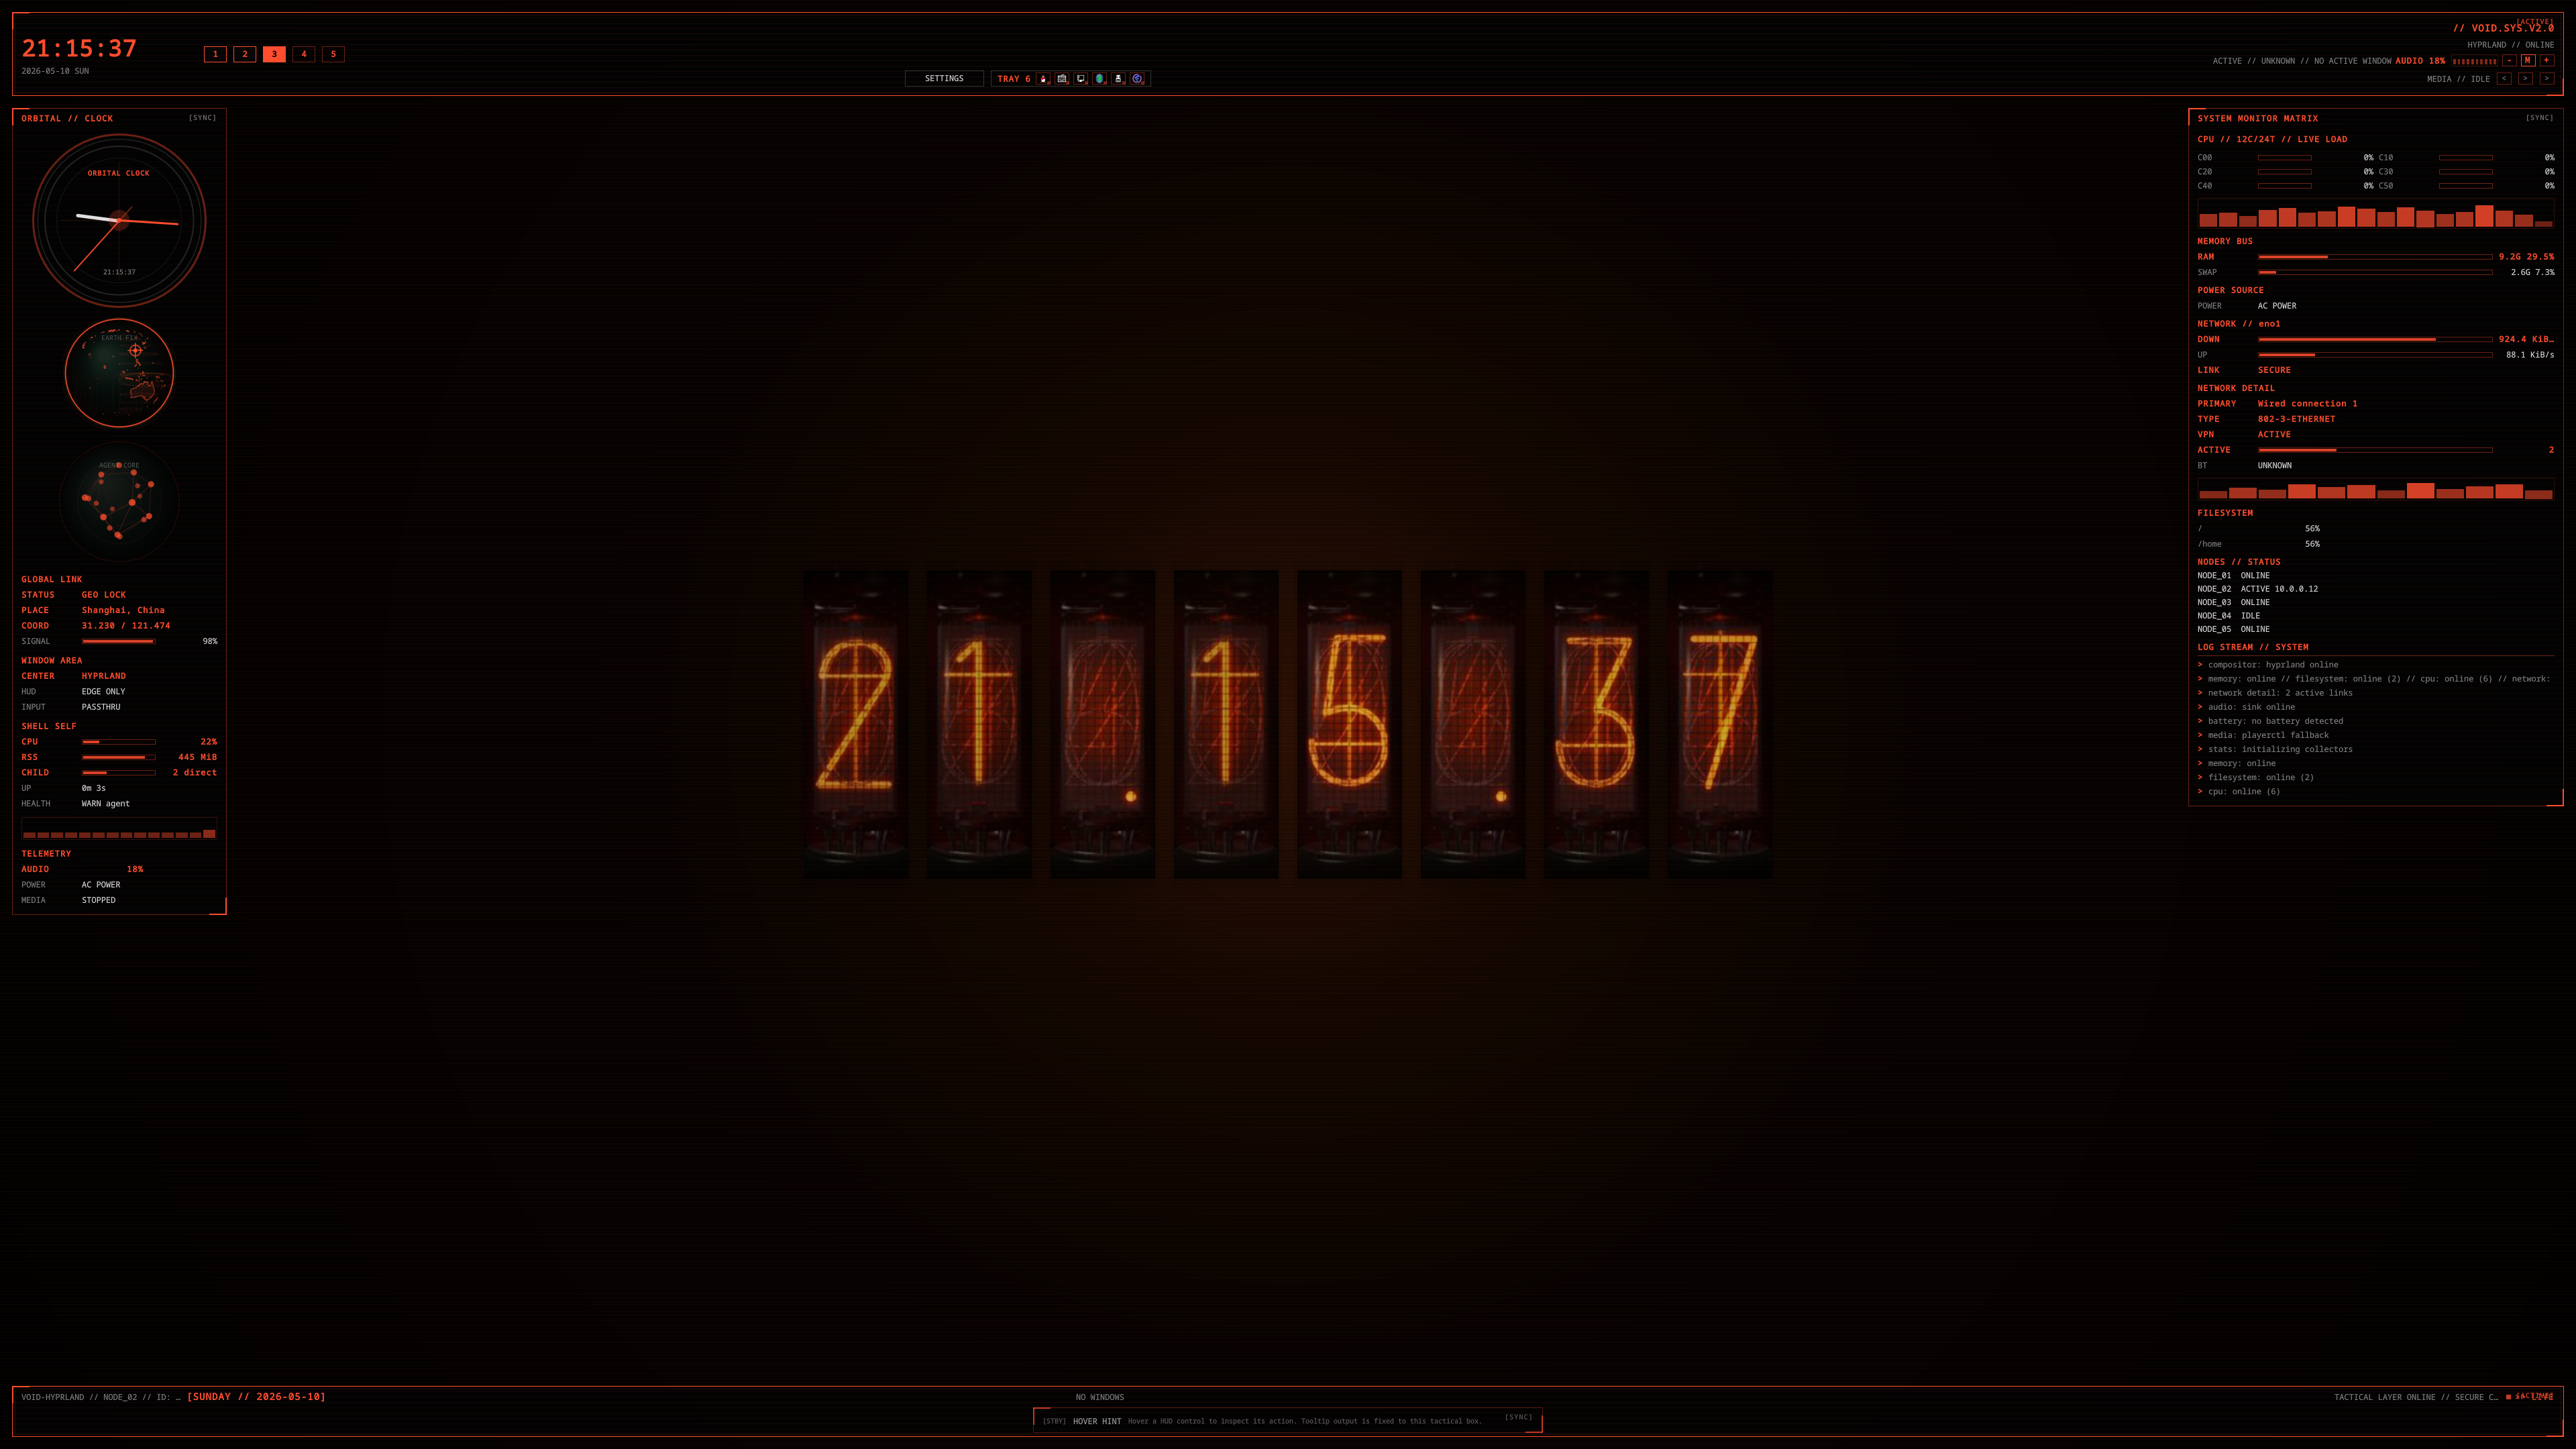
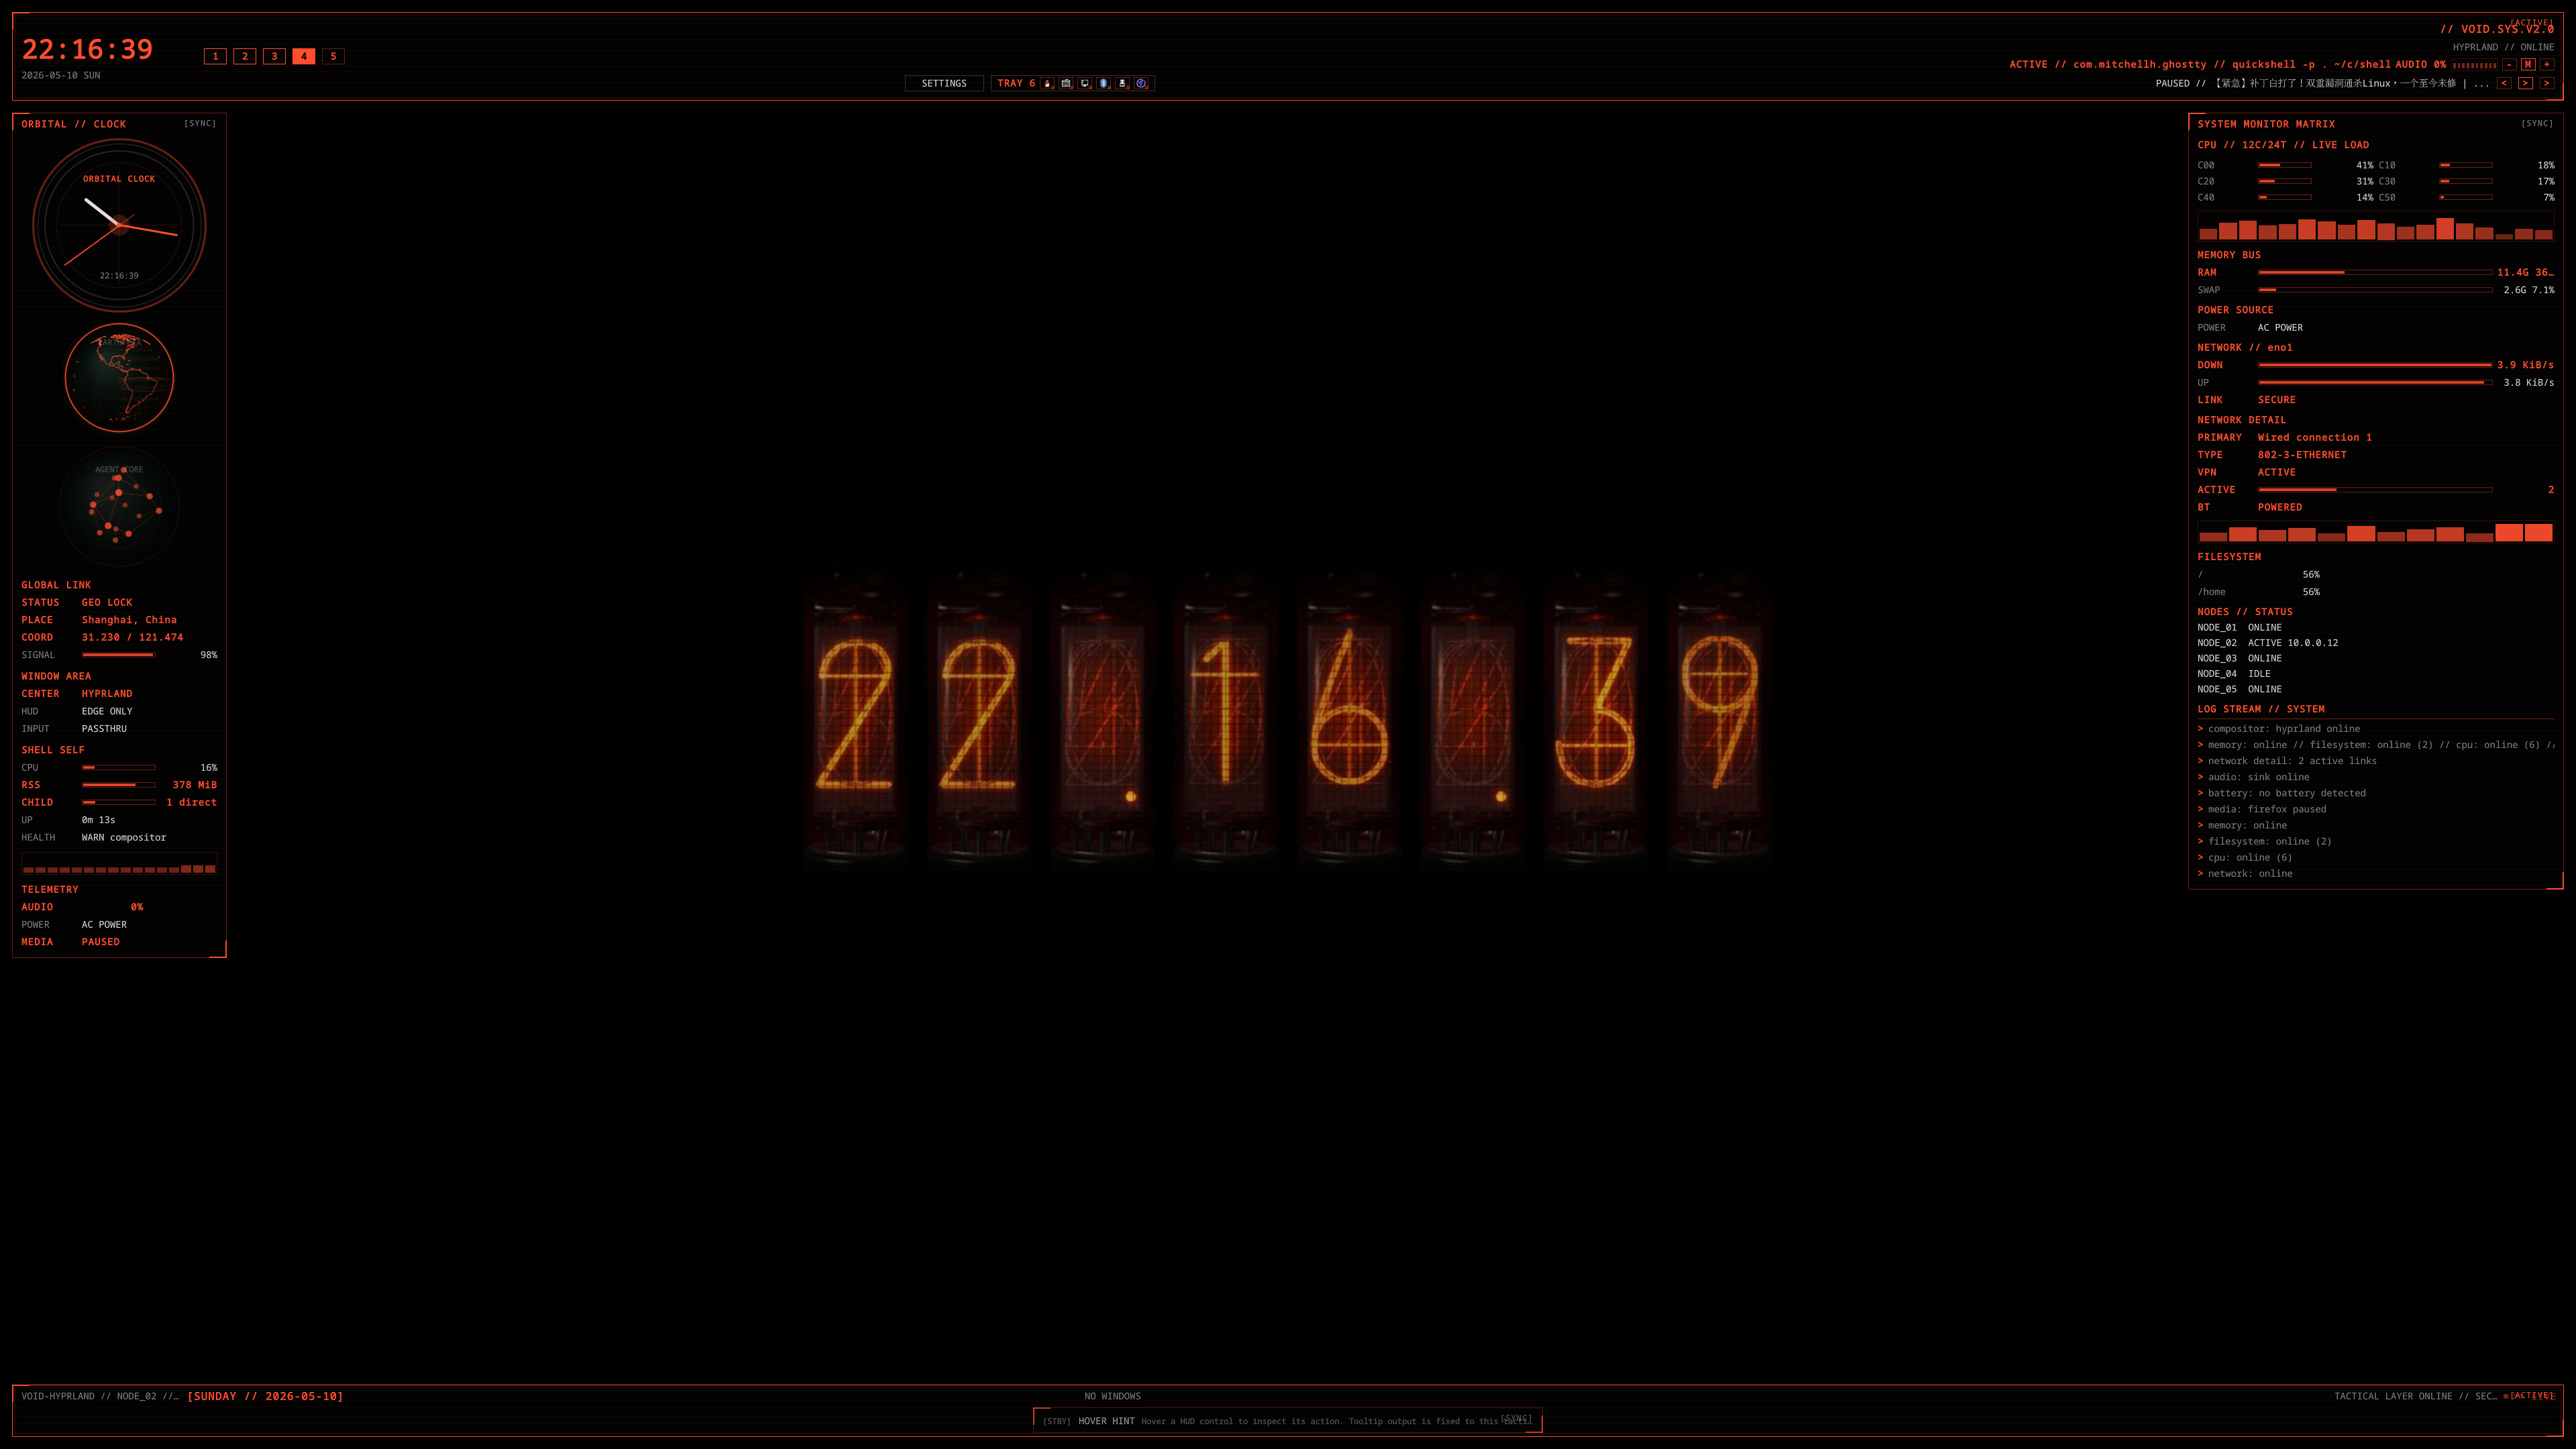
fix(hud): keep nixie backdrop pure black

diff --git a/components/NixieWallpaper.qml b/components/NixieWallpaper.qml
@@ -25,42 +25,7 @@ Item {
 
     Rectangle {
         anchors.fill: parent
-        color: "#010101"
-    }
-
-    Canvas {
-        id: ambientCanvas
-
-        anchors.fill: parent
-        antialiasing: true
-        onPaint: {
-            var ctx = getContext("2d");
-            ctx.reset();
-            ctx.clearRect(0, 0, width, height);
-            var cx = width * 0.5, cy = height * 0.5;
-            var glow = ctx.createRadialGradient(cx, cy, 0, cx, cy, Math.max(width, height) * 0.62);
-            glow.addColorStop(0, "#1b0902");
-            glow.addColorStop(0.38, "#090301");
-            glow.addColorStop(1, "#000000");
-            ctx.globalAlpha = 0.72;
-            ctx.fillStyle = glow;
-            ctx.fillRect(0, 0, width, height);
-
-            var halo = ctx.createRadialGradient(cx, cy, 0, cx, cy, Math.max(width, height) * 0.28);
-            halo.addColorStop(0, "#ff6b1a");
-            halo.addColorStop(0.36, "#4a1604");
-            halo.addColorStop(1, "#000000");
-            ctx.globalAlpha = 0.1;
-            ctx.fillStyle = halo;
-            ctx.fillRect(0, 0, width, height);
-
-            ctx.globalAlpha = 0.035;
-            ctx.fillStyle = "#f06f1e";
-            for (var y = 0; y < height; y += 5) {
-                var offset = Math.sin((root.phase + y) * Math.PI / 180) * 0.5;
-                ctx.fillRect(0, y + offset, width, 1);
-            }
-        }
+        color: "#000000"
     }
 
     RowLayout {
@@ -105,7 +70,4 @@ Item {
         }
     }
 
-    onPhaseChanged: ambientCanvas.requestPaint()
-    onWidthChanged: ambientCanvas.requestPaint()
-    onHeightChanged: ambientCanvas.requestPaint()
 }

diff --git a/.trellis/tasks/05-10-nixie-background-image-based-glow/prd.md b/.trellis/tasks/05-10-nixie-background-image-based-glow/prd.md
@@ -1,0 +1,92 @@
+# Nixie Background Image-Based Glow
+
+## Goal
+
+Replace the current drawn/rectangle-heavy Nixie background approach with a more realistic image-based vacuum tube presentation inspired by DivergenceMeter's digit-image switching model. The background should remain optional/default-off behind `SettingsService.backgroundMode === "nixie"`, but when enabled it should look like a photographic or pre-rendered nixie/vacuum tube display instead of hand-drawn QML line art.
+
+## What I Already Know
+
+* User wants OpenClaw CLI work deferred to the end of the sequence, then development should proceed in order.
+* User specifically called out `../DivergenceMeter/` as the reference for how to implement the glow-tube effect.
+* `../DivergenceMeter/Website/divergence_meter.js` implements the display by creating one image element per character and switching image sources: `0.png` through `9.png`, `p.png` for the dot, and `11.gif`/`12.gif` for animation.
+* Existing shell code already has `components/NixieWallpaper.qml`, `modules/hud/NixieBackgroundWindow.qml`, `assets/nixie/0.png` through `9.png`, and `assets/nixie/p.png`.
+* Current `NixieWallpaper.qml` still draws much of the tube casing/glow with QML rectangles and a Canvas backdrop, which is the part that looks unrealistic.
+* `DivergenceMeter` is GPLv3 and credits `LuqueDaniel/Divergence-Meter` for images/GIFs, so asset reuse needs explicit license/provenance checking before copying anything.
+* The current shell repository is also GPLv3, but visual fit and upstream asset provenance still matter.
+
+## Assumptions
+
+* The implementation should learn the image-switching architecture from DivergenceMeter, not blindly copy assets unless their license and visual fit are acceptable.
+* The first implementation can reuse the existing `assets/nixie/*.png` if they are already suitable, but should stop constructing fake tubes from QML rectangles.
+* If existing assets only contain digit glyphs without a tube/glass body, the better plan is to add a small, documented image asset set rather than drawing tubes manually.
+* The Nixie layer remains default-off and controlled from the existing settings panel.
+
+## Requirements
+
+* Defer OpenClaw CLI contract discovery to the end of the development plan sequence.
+* Replace the Nixie background visual strategy with an image-first architecture.
+* Keep time/value display as per-character image switching, matching the DivergenceMeter model conceptually.
+* Avoid hand-drawn tube bodies, wire lines, fake casing rectangles, and QML line-art pretending to be glass/tubes.
+* Preserve the existing settings contract: `visual.backgroundMode` values remain `void`, `grid`, `radar`, and `nixie`.
+* Add a new background settings option named `tianji`; its concrete visual implementation is intentionally deferred.
+* Ensure `tianji` is a safe selectable/persistable mode with no runtime breakage even before its dedicated background implementation exists.
+* Preserve the background layer behavior in `NixieBackgroundWindow.qml` and keep the layer non-interactive.
+* Keep the implementation offline and local; no runtime fetching of digit assets.
+* Document asset provenance if any new image/GIF assets are added.
+
+## Acceptance Criteria
+
+* [ ] Development plan order is updated so OpenClaw is last.
+* [ ] Background settings include a selectable `tianji` option whose implementation is marked/deferred safely.
+* [ ] `NixieWallpaper.qml` no longer relies on QML rectangle/line art for the visible tube/glass body.
+* [ ] Nixie digits/dots are rendered as switched image assets per character.
+* [ ] The optional Nixie background still toggles via existing `backgroundMode === "nixie"` settings.
+* [ ] No runtime network dependency is introduced.
+* [ ] Any added assets have clear provenance/licensing notes.
+* [ ] QML verification runs for changed QML files where available.
+* [ ] `git diff --check` passes.
+
+## Technical Approach
+
+Recommended direction: implement an image-first `NixieWallpaper` that treats each visible character as an `Image` slot. Use QML only for layout, opacity, subtle global glow/noise, and optional background falloff; do not synthesize the tube body with rectangles. If a full tube image set is available, each digit image should include the tube/glass/glow composition. If only glyph images are available, add or generate a proper tube-backed asset set before changing the QML.
+
+Likely implementation slices:
+
+1. Update `docs/development-plan.md` so OpenClaw CLI discovery is last, then list the Nixie image-based background before subsequent visual/data follow-ups.
+2. Extend background mode normalization/settings UI to include `tianji`, with copy indicating implementation is pending/deferred.
+3. Audit current `assets/nixie` dimensions/content and decide whether they are full tube assets or glyph-only assets.
+4. Refactor `components/NixieWallpaper.qml` into an image-slot layout inspired by DivergenceMeter: per-character `Image`, dot image, optional loading/flicker frame if assets exist.
+5. Remove fake tube rectangles/wires/casing from `NixieWallpaper.qml`, keeping only a minimal dark photographic-style background/glow layer if needed.
+6. Add asset provenance notes if new assets are introduced.
+
+## Decision (ADR-lite)
+
+**Context**: The hand-drawn QML tube background is not realistic enough. DivergenceMeter demonstrates that a convincing divergence/nixie display comes primarily from pre-rendered PNG/GIF digit assets switched per slot.
+
+**Decision**: Prefer image switching over QML-drawn tube geometry. QML should orchestrate slots, state, sizing, and subtle global ambience; realism should come from image assets.
+
+**Consequences**: Visual quality depends on asset quality and provenance. The QML becomes simpler and more faithful, but a good implementation may require adding or replacing image assets rather than drawing more shapes.
+
+## Out Of Scope
+
+* OpenClaw implementation in this task.
+* Implementing the actual `tianji` visual background beyond safe settings availability.
+* Runtime downloading of images.
+* Wallpaper scan/apply changes.
+* Reworking settings persistence values.
+* Building a full animation system unless suitable GIF/frame assets are available.
+
+## Technical Notes
+
+* Existing Nixie component: `components/NixieWallpaper.qml`.
+* Existing layer window: `modules/hud/NixieBackgroundWindow.qml`.
+* Existing settings UI: `modules/hud/CommandCenterSettingsColumn.qml`.
+* Existing assets: `assets/nixie/0.png` through `9.png`, `assets/nixie/p.png`.
+* DivergenceMeter reference: `../DivergenceMeter/Website/divergence_meter.js`.
+* DivergenceMeter images: `../DivergenceMeter/Website/images/0.png` through `9.png`, `p.png`, `11.gif`, `12.gif`.
+* DivergenceMeter license: `../DivergenceMeter/LICENSE` is GPLv3; README credits another upstream for images/GIFs.
+
+## Implementation Note
+
+* Current `assets/nixie/*.png` files are 130x384 tube-backed images, so this slice can use the existing local assets without adding new binary assets or provenance documents.
+* Keep the backdrop behind PNG tube assets pure black (`#000000`); avoid red/orange/gray glow, gradients, or ambient color that exposes image borders.

diff --git a/.trellis/tasks/archive/2026-05/05-10-update-readme-screenshot-demo-placeholders/prd.md b/.trellis/tasks/archive/2026-05/05-10-update-readme-screenshot-demo-placeholders/prd.md
@@ -1,0 +1,70 @@
+# Update README Screenshot Demo Placeholders
+
+## Goal
+
+Update `README.md` so it reflects the current shell implementation and includes a screenshot/demo section with descriptive text plus empty image placeholders for the user to fill later.
+
+## What I Already Know
+
+* User wants to stop continuing the development plan and update docs such as `README.md`.
+* User plans to add several screenshots to the demo section later, so README should include text and placeholder image references without requiring actual images now.
+* Current `README.md` still references older progress screenshots and does not mention recent features like the Natural Earth Earth panel, shell self-performance readout, or top-bar launcher input.
+* `docs/development-plan.md` is current enough to identify completed features and future slices.
+* Existing assets are mostly nixie digit images; there is no obvious screenshot asset directory yet.
+
+## Assumptions
+
+* Do not create binary screenshot files in this task.
+* Use Markdown image placeholders that point to future files under a clear path such as `docs/screenshots/*.png`.
+* Keep README concise and project-facing rather than turning it into a full manual.
+* Verification for this docs-only slice is `git diff --check`.
+
+## Requirements
+
+* Update README overview/features to match the current project state.
+* Add a screenshot/demo section with multiple named placeholders and short descriptions.
+* Leave image paths empty of actual files but clear enough for the user to add screenshots later.
+* Mention key current surfaces: top bar launcher, command center, left/right telemetry, Earth panel, shell self-performance readout, settings/background controls, tray/media/network/system monitoring.
+* Keep existing setup/run/troubleshooting guidance accurate.
+* Do not change QML code or add assets.
+
+## Acceptance Criteria
+
+* [ ] README no longer undersells current implemented features.
+* [ ] README includes a screenshot/demo section with several future image placeholders and descriptive text.
+* [ ] Placeholder image paths are stable and obvious for later screenshot insertion.
+* [ ] README controls mention `Ctrl+Space` top-bar launcher and existing `Ctrl+Alt+S` command center.
+* [ ] No binary image files are added.
+* [ ] `git diff --check` passes.
+
+## Definition Of Done
+
+* README is updated and whitespace-checked.
+* Task is checked before commit.
+* Commit/push can happen after review.
+
+## Technical Approach
+
+Revise `README.md` in place. Add a `## Screenshot Demo` or similar section near visual progress, with placeholders such as:
+
+* `docs/screenshots/01-main-hud.png`
+* `docs/screenshots/02-command-center.png`
+* `docs/screenshots/03-earth-panel.png`
+* `docs/screenshots/04-launcher-bar.png`
+* `docs/screenshots/05-settings-backgrounds.png`
+
+Use descriptive captions so missing files are easy to fill later. Avoid adding the actual image files or directories unless necessary.
+
+## Out Of Scope
+
+* Capturing screenshots.
+* Adding binary assets.
+* Changing QML code.
+* Reworking docs beyond README alignment.
+* Continuing feature development from `docs/development-plan.md`.
+
+## Technical Notes
+
+* README source: `README.md`.
+* Feature source of truth: `docs/development-plan.md`.
+* Placeholder screenshots should be intentionally missing for now so the user can fill them later.

diff --git a/docs/settings.md b/docs/settings.md
@@ -68,9 +68,10 @@ Fallback if `XDG_CONFIG_HOME` is unset:
 - `visual.density` is one of `compact`, `normal`, or `dense` and drives coarse QML layout density.
 - `visual.profile` is one of `gray`, `amber`, `green`, `blue`, or `red` and defaults to `gray`.
 - `visual.accentColor` is a hex RGB color (`#RRGGBB`) and defaults to `#8A8A8A`.
-- `visual.backgroundMode` is one of `void`, `grid`, `radar`, or `nixie`.
+- `visual.backgroundMode` is one of `void`, `grid`, `radar`, `nixie`, or `tianji`.
 - `visual.backgroundMode: "void"` is the default, so optional wallpaper effects start disabled.
-- `visual.backgroundMode: "nixie"` renders the local Canvas-based vacuum tube clock backdrop inside the shell background layer; it does not start external processes or fetch network data.
+- `visual.backgroundMode: "nixie"` renders the local image-based vacuum tube clock backdrop inside the shell background layer; it does not start external processes or fetch network data.
+- `visual.backgroundMode: "tianji"` is a safe persisted placeholder for deferred background work and currently does not activate a dedicated background layer.
 - `data.liveDataEnabled` is boolean.
 - `data.networkGeolocationEnabled` is boolean and defaults to `false`; when disabled, location-dependent surfaces use offline timezone inference instead of contacting an IP geolocation endpoint.
 - `data.updateIntervalMs` is clamped to `1000..30000`.